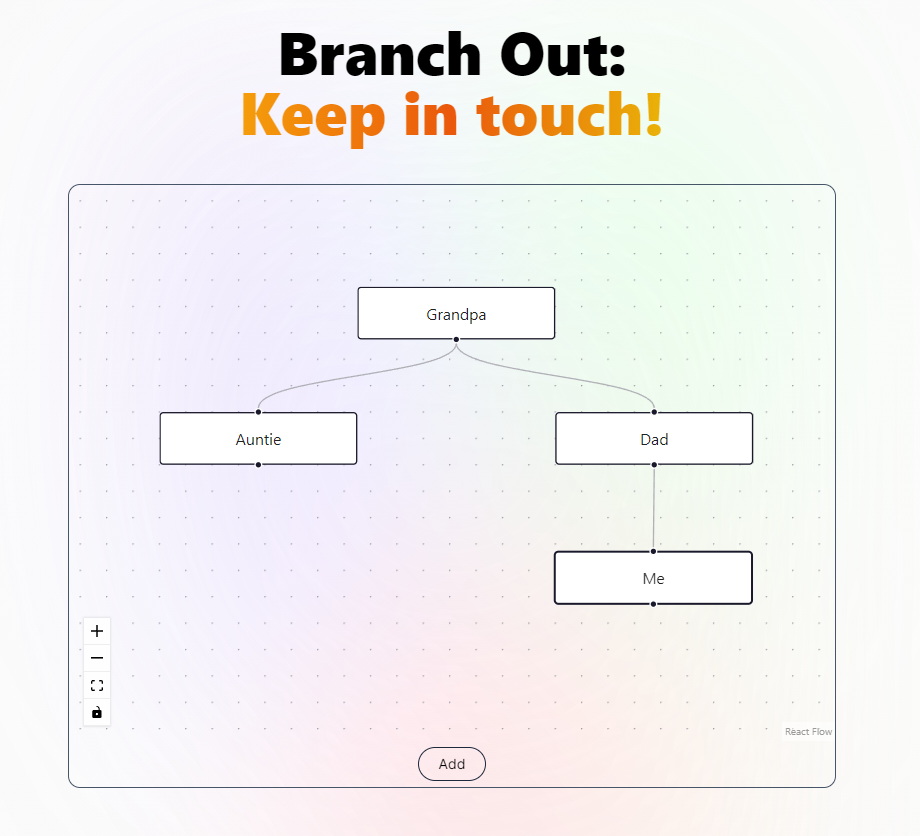
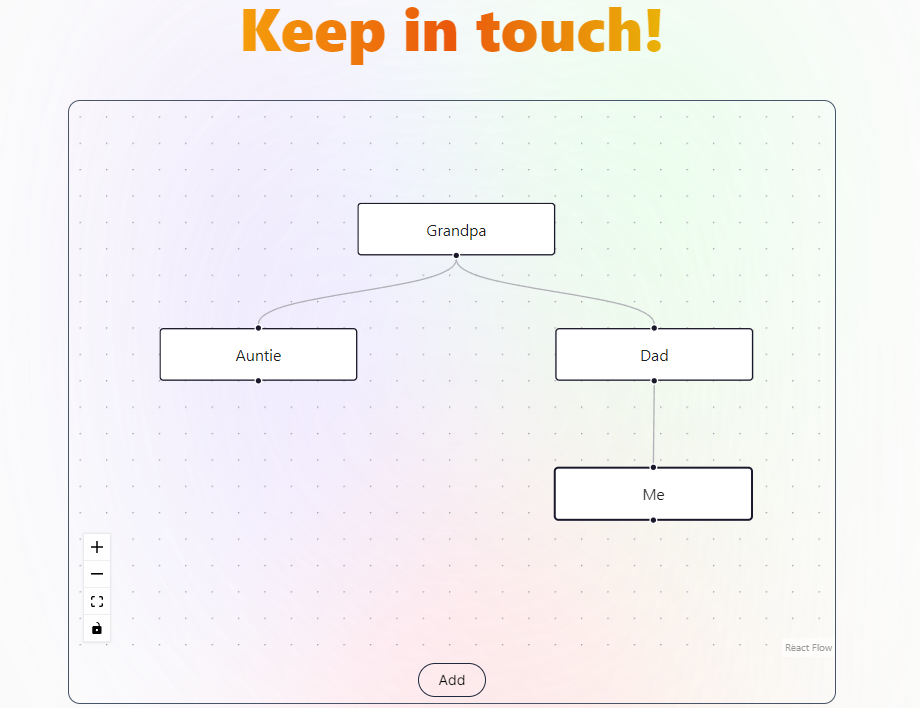
Update images

diff --git a/docs/projects.html b/docs/projects.html
@@ -2,6 +2,7 @@
     <h2><u>Project Details</u></h2>
 
     <h3>Thrive: Happy Habits</h3>
+    <img class="project-image" src="assets/thrive-splash.png" alt="Thrive Screenshot">
     <p>
         Developed with Robbie Lowenstein @ Bellwoods Strategic Capital. 
         A <b>React Native</b> application using <b>Expo</b> to be on iOS and Android app stores, 
@@ -11,24 +12,28 @@
     </p>
 
     <h3>Order-Up</h3>
+    <img class="project-image" src="assets/order-up.png" alt="Order-Up Screenshot">
     <p>
         An order management system complete with results/statistics page. Made in <b>Java</b> using <b>Spring Boot</b> for the backend and <b>JavaFX</b> for the application frontend. 
         Demonstrating <b>OOP</b> and <b>clean architecture</b> practices.
     </p>
 
     <h3>Branch-Out</h3>
+    <img class="project-image" style="height:600px;" src="assets/branch-out.png" alt="Branch-Out Screenshot">
     <p>
         A web based contacts page in the style of a family tree, where nodes reference contact info for other Users/family members. 
         Built on the <b>Next JS</b> framework with <b>React</b>. Data stored using <b>MongoDB</b>. 
     </p>
     
     <h3>Bed'n Breakfast</h3>
+    <img class="project-image" style="height:300px;" src="assets/bnb-sql.png" alt="Bnb Screenshot">
     <p>
         An AirBnB replica. Focus on data management with <b>MySQL</b> and <b>embedded SQL in Java</b>. 
         Additional features include linear regression for price suggestions and <b>Apache OpenNLP</b> for natural language processing of user comments.
     </p>
     
     <h3>ML Course Project</h3>
+    <img class="project-image" src="assets/311-epochs.png" alt="311 Screenshot">
     <p>
         A machine learning project, <b>employing KNN, probabilistic models, and neural networks</b>. 
         Implemented, modified, and analyzed models in <b>Python</b> using <b>PyTorch, Sci-Kit, and numpy</b> using data provided by Eedi, an online education platform.
